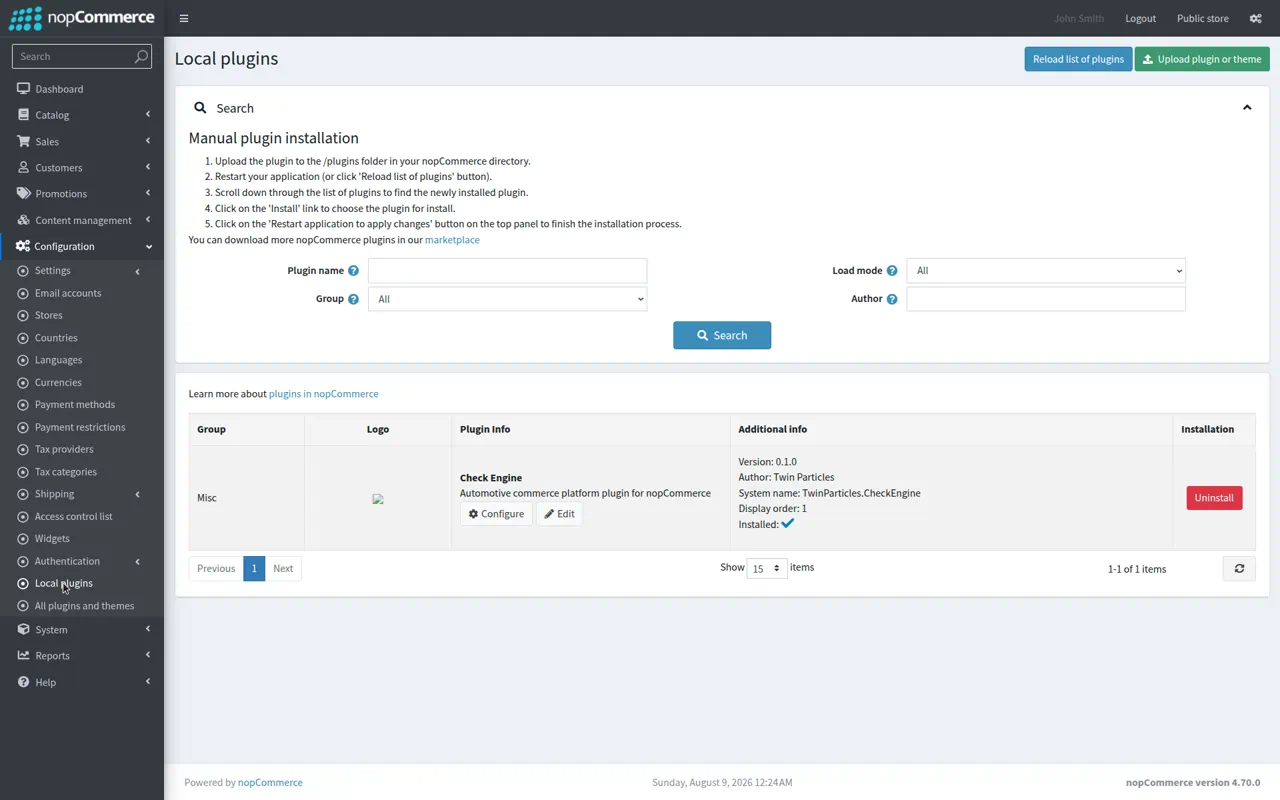
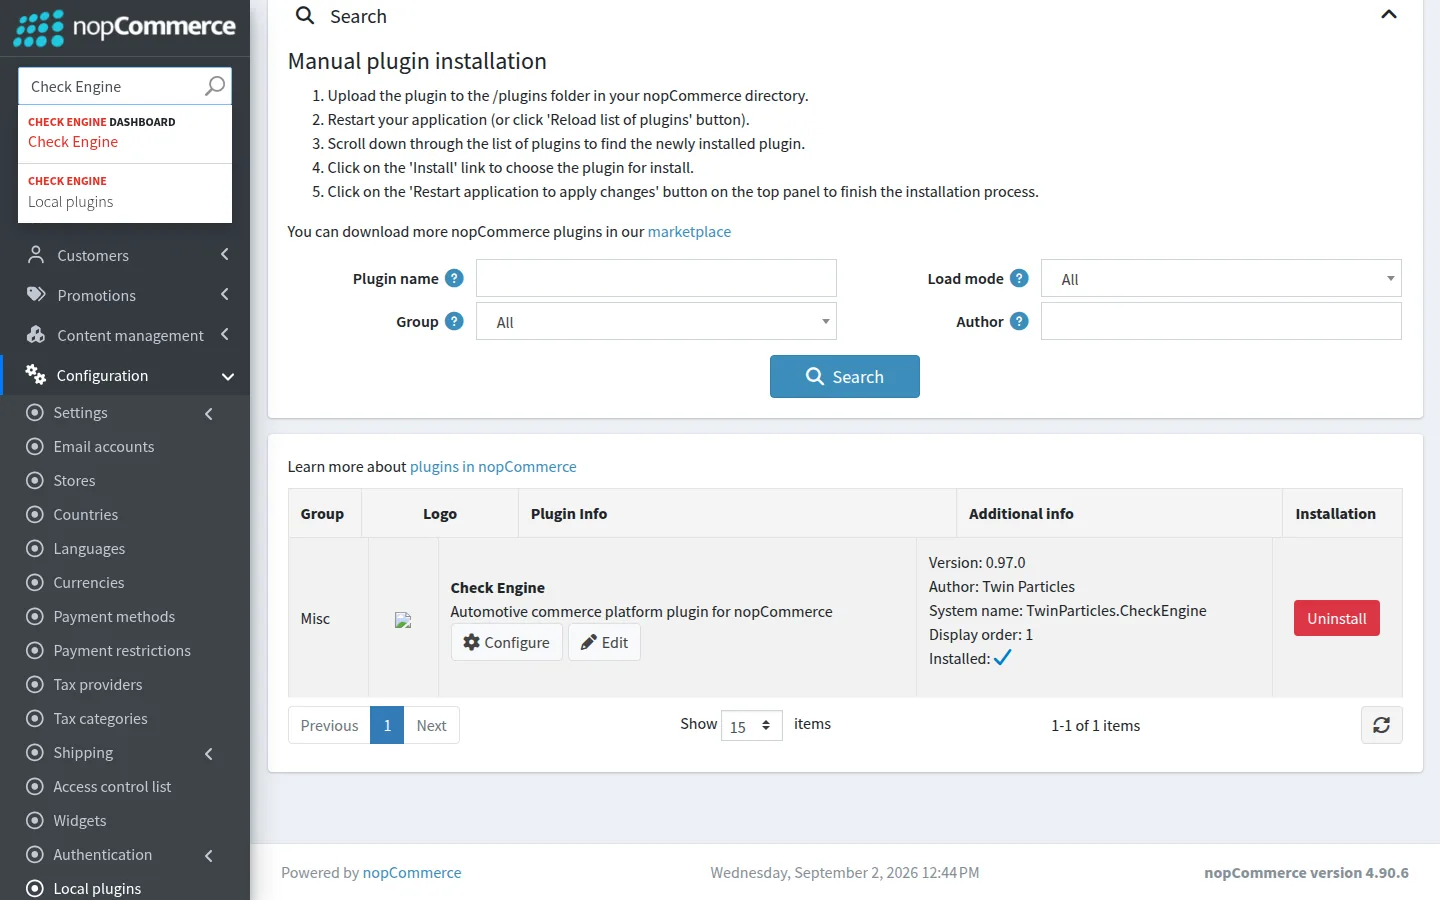
docs(check-engine): refresh User Guide with live 0.97 theme screenshots
Capture storefront, garage sheet, login, category, admin, and health
shots from a running store. Fix theme ViewImports so NopUrl compiles.

diff --git a/src/Tests/TwinParticles.CheckEngine.Tests.Architecture/CheckEngineThemePackageTests.cs b/src/Tests/TwinParticles.CheckEngine.Tests.Architecture/CheckEngineThemePackageTests.cs
@@ -169,6 +169,7 @@ public class CheckEngineThemePackageTests
     [Test]
     public void Theme_Should_Finish_Header_Account_Topic_Landing_And_Motion()
     {
+        ReadThemeFile("Views", "_ViewImports.cshtml").Should().Contain("INopUrlHelper NopUrl");
         ReadThemeFile("Views", "Shared", "_Header.cshtml").Should().NotContain("SearchBoxViewComponent");
         ReadThemeFile("Views", "Shared", "_Header.cshtml").Should().Contain("LogoViewComponent");
         ReadThemeFile("Views", "Shared", "Head.cshtml").Should().Contain("preload");

diff --git a/CheckEngine/USER-GUIDE.md b/CheckEngine/USER-GUIDE.md
@@ -2,9 +2,10 @@
 
 > A practical, screenshot-led guide to installing, configuring, and using the Check Engine plugin for nopCommerce.
 
-**Status:** Draft · **Applies to:** Check Engine `0.1.0` on nopCommerce `4.70` · **Last revised:** 2026-08-09
+**Status:** Draft · **Applies to:** Check Engine `0.97.1` on nopCommerce `4.90.6` · **Last revised:** 2026-09-02
 
-All screenshots in this guide were captured from a live store running the plugin.
+All screenshots in this guide were captured from a live store running the plugin and the
+`CheckEngine` theme. They contain only demo catalog data — no customer records.
 
 ---
 
@@ -51,8 +52,8 @@ Core capabilities:
 
 | Requirement | Value |
 |---|---|
-| nopCommerce | 4.70 (`SupportedVersions` in `plugin.json`) |
-| .NET runtime | .NET 8 (the host and plugin target `net8.0`) |
+| nopCommerce | 4.90 (`SupportedVersions` in `plugin.json`) |
+| .NET runtime | .NET 9 (the host and plugin target `net9.0`) |
 | Database | **SQL Server** is the supported production database for Check Engine tables (see [Known limitations](#13-known-limitations)) |
 | Permissions | An admin account with the **Manage Check Engine** permission for admin endpoints |
 
@@ -107,8 +108,9 @@ widget activation separately.
 
 ![Check Engine widget marked active in the Widgets list](docs/user-guide/images/05-admin-widgets.webp)
 
-Once active, the plugin injects its search bar, vehicle selector/garage chip, and product fitment band
-into the storefront widget zones.
+Once active, the plugin injects the sticky search rail, garage chip, mega menu, and product fitment
+band. Install also activates the `CheckEngine` theme when the store is still on DefaultClean, so the
+header wordmark, catalog, and cart share the same dark shell.
 
 ---
 
@@ -123,11 +125,11 @@ carries a master **Enabled** switch and a link into the operator dashboard.
 
 ### 5.2 Operator dashboard
 
-The dashboard (`/Admin/CheckEngine/Dashboard`) is the operator hub. It lists the admin JSON endpoints
-(vehicle, OEM, fitment queue, import, search rebuild, garage, ERP, SEO) and provides a file-upload panel
-for running the import pipeline.
+The dashboard (`/Admin/CheckEngine/Dashboard`) is the operator hub. It groups storefront portals,
+vehicle/OEM/fitment/import boards, and a file-upload panel for the import pipeline. Uninstall export
+sits below the portal cards, not in the hero.
 
-![Check Engine operator dashboard with admin endpoint links and the import upload panel](docs/user-guide/images/07-admin-dashboard.webp)
+![Check Engine operator dashboard with portal cards and the import upload panel](docs/user-guide/images/07-admin-dashboard.webp)
 
 ---
 
@@ -135,16 +137,22 @@ for running the import pipeline.
 
 ### 6.1 The Check Engine chrome
 
-With the widget active, the storefront gains a **sticky search rail** that sits directly below the store
-header. The rail holds, in order: the **garage context chip**, the **vehicle selector**, the unified
-**search field** ("Search parts, OEM, or VIN"), an **Include unverified fit** toggle, and the **Search**
-button. On the home page a Check Engine **hero panel** introduces the vehicle-first flow.
+The `CheckEngine` theme is the storefront: dark graphite header, Check Engine wordmark, and no second
+host search box. Below the header the **sticky search rail** stays reachable while you scroll
+(`FR-414`). The rail holds, in order: the **garage chip**, the unified **search field**, **More
+filters** (where “Include unverified fit” lives), and **Search**. The native vehicle `<select>` is
+visually hidden — the chip is the one vehicle control. Home keeps a single first-viewport composition
+(no host welcome topic, news, or polls).
 
-![Storefront home showing the Check Engine search rail and hero panel](docs/user-guide/images/01-storefront-home.webp)
+![Storefront home showing the Check Engine wordmark, search rail, and first-viewport hero](docs/user-guide/images/01-storefront-home.webp)
 
 The rail stays visible while scrolling, and on small screens it reflows so the query field always leads:
 
 ![Check Engine rail and hero stacked on a 390px mobile viewport](docs/user-guide/images/09-mobile-layout.webp)
+
+Catalog pages use the same shell. Category titles sit above the aftermarket / vehicle-scope hint:
+
+![Computers category on the Check Engine theme](docs/user-guide/images/12-category.webp)
 
 ### 6.2 Searching for parts
 
@@ -165,19 +173,27 @@ shows the product name plus brand and product id:
 
 Behaviour worth knowing:
 
-- **Include unverified fit** widens results to parts whose compatibility could not be verified. It is off
-  by default, so a vehicle-filtered search only returns verified fits.
+- **Include unverified fit** lives under **More filters**. It is off by default, so a vehicle-filtered
+  search only returns verified fits.
 - `Esc` closes the dropdown and returns focus to the field; clicking outside also dismisses it.
 - When no part matches, the panel shows a clear empty state with recovery advice rather than a wrong
   result — fitment answers are always fail-closed.
 
 ### 6.3 The garage and active vehicle
 
-- Signed-in shoppers can add vehicles to their **garage** by VIN or by picking a vehicle configuration.
-- Exactly **one** vehicle is *active* at a time; the active vehicle drives default fitment filtering in
-  search and on product pages.
+The garage chip opens an in-page **sheet** — not a browser `prompt`. The sheet has a labelled VIN
+field, a last-four preview, Cancel / Add, and an in-sheet remove confirm. The rail never shows a
+full 17-character VIN.
+
+![Garage sheet with VIN field and last-four preview](docs/user-guide/images/10-garage-sheet.webp)
+
+- Signed-in shoppers add vehicles by VIN (or later by configuration). Exactly **one** vehicle is
+  *active*; it drives default fitment filtering in search and on product pages.
 - Guests get a local (browser) garage that is **merged into their account** when they sign in or register.
-- The vehicle selector in the header lets shoppers switch the active vehicle or add a new one.
+- The login and register pages use the same dark account shell as the rest of the theme:
+
+![Check Engine theme login page](docs/user-guide/images/11-login.webp)
+
 - Signed-in VINs are encrypted with the host encryption key before SQL storage. `Garage/Export`
   returns the subject's decrypted garage data; confirmed `Garage/Erase` removes vehicles, OEM saves
   and the garage atomically. Permanent nopCommerce customer deletion invokes the same erasure path.
@@ -185,9 +201,9 @@ Behaviour worth knowing:
 
 ### 6.4 The product fitment band
 
-On a product page, Check Engine adds a **fitment band** near the top of the product details. It calls the
-fitment engine for the active vehicle and shows one of a small set of states — never a speculative
-"Fits":
+On a product page the **fitment band** sits inside the buy box (after the title), not as a banner above
+the page. It calls the fitment engine for the active vehicle and shows one of a small set of states —
+never a speculative "Fits":
 
 | State | Meaning |
 |---|---|
@@ -360,20 +376,24 @@ anchor, so integrity verification remains continuous across the retention bounda
 
 ## 12a. Theming and appearance
 
-The storefront components ship as a small design system rather than ad-hoc styles, implemented from
+Horizon 1 ships a nopCommerce theme package at `src/Presentation/Nop.Web/Themes/CheckEngine`
+(`theme.json` system name `CheckEngine`, RTL enabled). Plugin install/update sets
+`StoreInformationSettings.DefaultStoreTheme` to `CheckEngine` when the store is still empty or on
+DefaultClean.
+
+The chrome and theme share one design system from
 [docs/22-ui-design-system.md](docs/22-ui-design-system.md):
 
 | File | Role |
 |---|---|
 | `Content/checkengine-tokens.css` | Design tokens — palette, spacing scale, radius, type scale, motion. Layer 1 (primitive) and layer 2 (semantic). |
 | `Content/checkengine-theme.css` | Component styles. References only `var(--ce-*)` tokens, never raw hex. |
-| `Content/checkengine-storefront.js` | Behaviour for the rail, garage, and fitment band. |
+| `Content/checkengine-fonts.css` | Self-hosted Outfit and IBM Plex (SIL OFL). No Google Fonts CDN. |
+| `Content/checkengine-storefront.js` | Behaviour for the rail, garage sheet, and fitment band. |
+| `Themes/CheckEngine/Content/css/styles.css` | Dark shell over DefaultClean structure: header, catalog, PDP, cart, account, checkout. |
 
-Both stylesheets are registered automatically by the widget, so they are picked up by nopCommerce's CSS
-bundling — you do not need to edit the theme to include them.
-
-**To re-skin Check Engine, override the tokens** rather than the component rules. For example, in your
-theme's stylesheet:
+Widget CSS is registered automatically. **To re-skin Check Engine, override the tokens** rather than
+the component rules. For example, in your theme's stylesheet:
 
 ```css
 :root {
@@ -400,13 +420,12 @@ Accessibility and layout behaviour built into the components:
 - **Database:** Check Engine's SQL repositories use SQL Server syntax (for example `SCOPE_IDENTITY()`).
   Schema creation works on other providers, but write-heavy Check Engine features are only expected to
   work against **SQL Server**. Use SQL Server for a full evaluation.
-- **Admin UI:** admin workflows are exposed as **JSON endpoints** plus the operator dashboard, not as
-  full AdminLTE CRUD screens yet.
-- **Storefront styling:** the chrome renders below the host header and is styled from Check Engine's own
-  token set. It is designed against nopCommerce's DefaultClean theme; a heavily customised theme may need
-  token overrides (see [Theming and appearance](#12a-theming-and-appearance)).
-- **Web fonts:** the design system specifies Outfit and IBM Plex, loaded from Google Fonts. If your
-  deployment blocks external font hosts, self-host them and override `--ce-font-display` / `--ce-font-ui`.
+- **Admin UI:** most operator workflows are still JSON endpoints plus the dashboard cards, not full
+  AdminLTE CRUD screens.
+- **Storefront styling:** the `CheckEngine` theme overlays DefaultClean structure. A heavily customised
+  third-party theme may need token overrides (see [Theming and appearance](#12a-theming-and-appearance)).
+- **Web fonts:** Outfit and IBM Plex ship as woff2 under `Content/fonts`. Override `--ce-font-display`
+  / `--ce-font-ui` only if you swap the faces.
 - **Search data source:** out of the box, search resolves against fitment/OEM maps with a small seeded
   fallback, so results reflect Check Engine data rather than the full nopCommerce catalog until you link
   products.

diff --git a/CheckEngine/CHANGELOG.md b/CheckEngine/CHANGELOG.md
@@ -42,6 +42,13 @@ Documentation work in progress. Phases are defined in [ROADMAP.md](ROADMAP.md#do
 
 ### Added
 
+- **Documentation — User Guide screenshots (`0.97.1`):** live captures of the Check
+  Engine theme home, mobile rail, search dropdown, garage sheet, category, login,
+  PDP fitment band, admin plugins/widgets/configure/dashboard, and health JSON in
+  [USER-GUIDE.md](USER-GUIDE.md). Guide metadata updated to nopCommerce 4.90.6 /
+  .NET 9 / plugin `0.97.0`.
+- **Software — plugin `0.97.1`:** theme `_ViewImports.cshtml` injects `INopUrlHelper`
+  so Check Engine Razor overrides compile with the host.
 - **Software — plugin `0.97.0` Check Engine theme finished (UX.9):** header has no
   host search box; topic, register, password recovery, manufacturer/vendor lists, and
   checkout completed use theme templates; vehicle/part landings use a first-viewport
